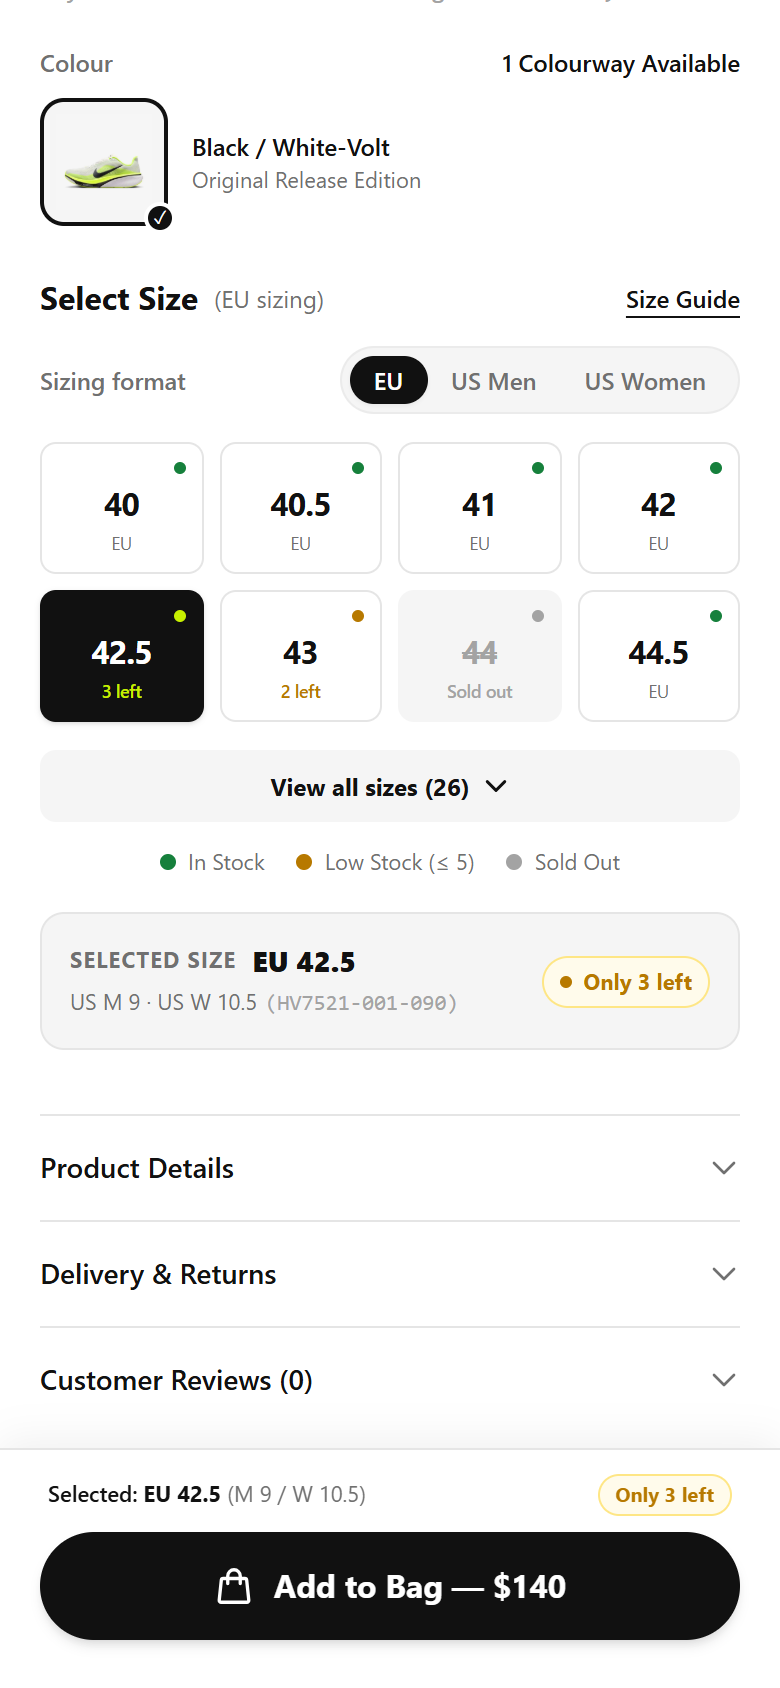
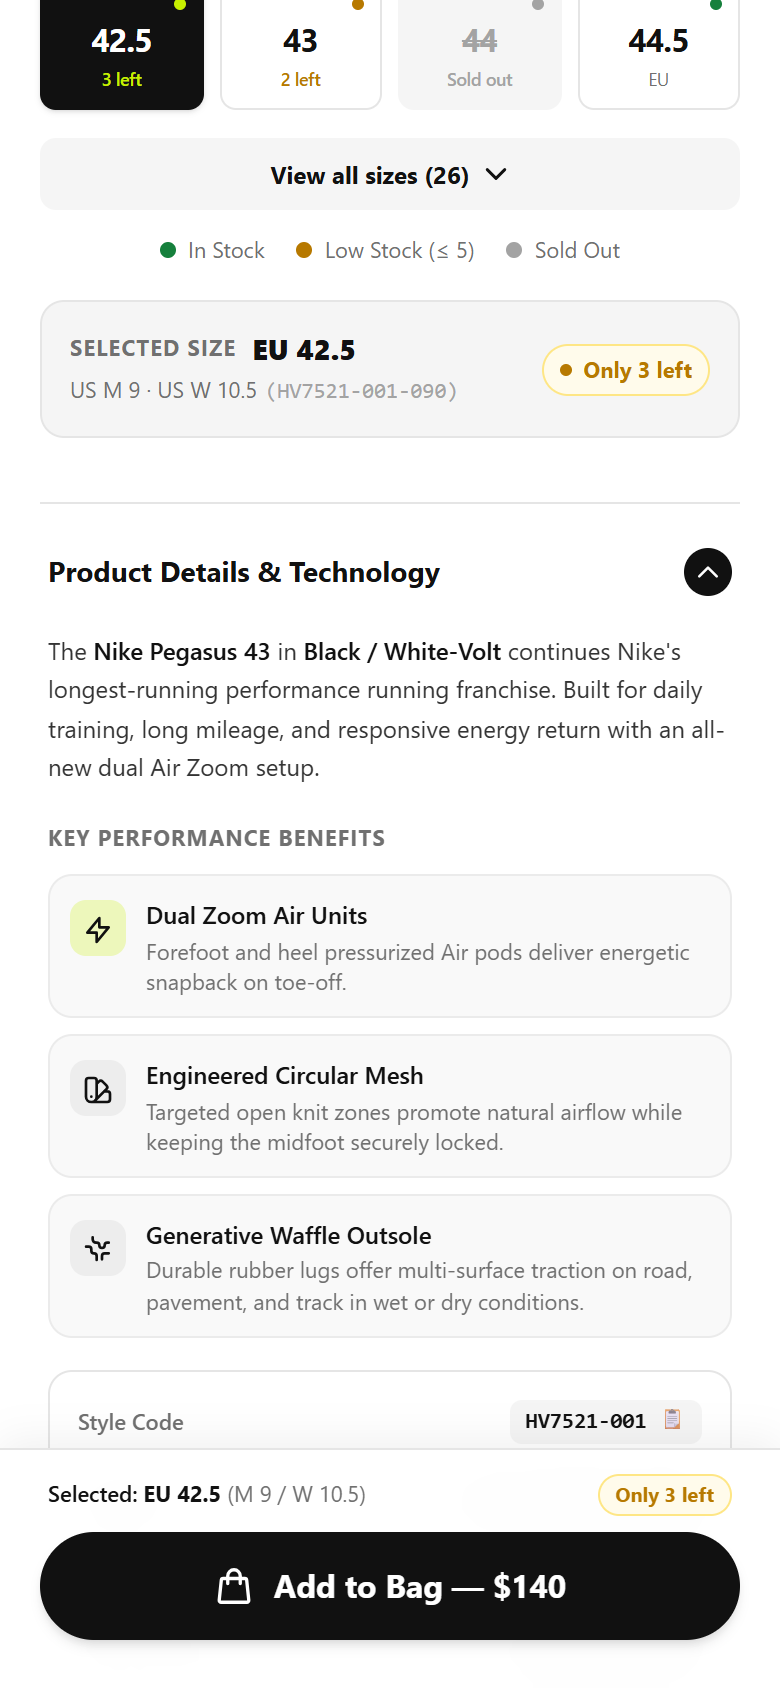
design: elevate Product Details, Delivery & Returns, and Reviews with authentic Nike styling

diff --git a/components/ProductAccordion.tsx b/components/ProductAccordion.tsx
@@ -6,52 +6,192 @@ import { productInfo } from "@/data/inventory";
 interface SectionItem {
   id: string;
   title: string;
+  badge?: string;
   content: React.ReactNode;
 }
 
 export default function ProductAccordion() {
   const [openSections, setOpenSections] = useState<Record<string, boolean>>({
-    details: false,
+    details: true, // open by default to showcase premium specs
     delivery: false,
     reviews: false,
   });
+
+  const [copiedSku, setCopiedSku] = useState(false);
 
   const toggle = (id: string) => {
     setOpenSections((prev) => ({ ...prev, [id]: !prev[id] }));
   };
 
+  const handleCopySku = () => {
+    navigator.clipboard?.writeText(productInfo.styleCode);
+    setCopiedSku(true);
+    setTimeout(() => setCopiedSku(false), 2000);
+  };
+
   const sections: SectionItem[] = [
     {
       id: "details",
-      title: "Product Details",
+      title: "Product Details & Technology",
       content: (
-        <div className="space-y-3 text-xs text-[#707070] leading-relaxed">
-          <p>
-            The Nike Pegasus 43 in {productInfo.colorway} continues Nike&apos;s longest-running performance franchise.
+        <div className="space-y-4 pt-1 pb-2 text-xs leading-relaxed">
+          {/* Editorial lead */}
+          <p className="text-[#333333] font-normal leading-relaxed">
+            The <span className="font-semibold text-[#111111]">Nike Pegasus 43</span> in{" "}
+            <span className="font-semibold text-[#111111]">{productInfo.colorway}</span> continues
+            Nike&apos;s longest-running performance running franchise. Built for daily training, long
+            mileage, and responsive energy return with an all-new dual Air Zoom setup.
           </p>
-          <div className="bg-[#F5F5F5] rounded-xl p-3 border border-[#E5E5E5]/60 text-[11px] space-y-1 font-mono">
-            <div><span className="font-semibold text-[#111111]">Style Code:</span> {productInfo.styleCode}</div>
-            <div><span className="font-semibold text-[#111111]">Category:</span> {productInfo.category}</div>
-            <div><span className="font-semibold text-[#111111]">Colorway:</span> {productInfo.colorway}</div>
-            <div><span className="font-semibold text-[#111111]">Official Launch:</span> {productInfo.launchDate}</div>
+
+          {/* Key Innovations Grid */}
+          <div className="space-y-2.5">
+            <h4 className="text-[11px] font-bold uppercase tracking-wider text-[#707070]">
+              Key Performance Benefits
+            </h4>
+
+            <div className="grid grid-cols-1 gap-2">
+              <div className="flex items-start gap-2.5 p-2.5 rounded-xl bg-[#F9F9F9] border border-[#EBEBEB]">
+                <div className="w-7 h-7 rounded-lg bg-[#C7F000]/25 text-[#111111] flex items-center justify-center shrink-0 mt-0.5">
+                  <svg className="w-4 h-4" fill="none" stroke="currentColor" strokeWidth="2" viewBox="0 0 24 24">
+                    <path strokeLinecap="round" strokeLinejoin="round" d="M13 10V3L4 14h7v7l9-11h-7z" />
+                  </svg>
+                </div>
+                <div className="min-w-0">
+                  <p className="text-[12px] font-semibold text-[#111111]">Dual Zoom Air Units</p>
+                  <p className="text-[11px] text-[#707070] leading-snug">
+                    Forefoot and heel pressurized Air pods deliver energetic snapback on toe-off.
+                  </p>
+                </div>
+              </div>
+
+              <div className="flex items-start gap-2.5 p-2.5 rounded-xl bg-[#F9F9F9] border border-[#EBEBEB]">
+                <div className="w-7 h-7 rounded-lg bg-[#111111]/5 text-[#111111] flex items-center justify-center shrink-0 mt-0.5">
+                  <svg className="w-4 h-4" fill="none" stroke="currentColor" strokeWidth="2" viewBox="0 0 24 24">
+                    <path strokeLinecap="round" strokeLinejoin="round" d="M7 21a4 4 0 01-4-4V5a2 2 0 012-2h4a2 2 0 012 2v12a4 4 0 01-4 4zm0 0h12a2 2 0 002-2v-4a2 2 0 00-2-2h-2.343M11 7.343l1.657-1.657a2 2 0 012.828 0l2.829 2.829a2 2 0 010 2.828l-8.486 8.485M7 17h.01" />
+                  </svg>
+                </div>
+                <div className="min-w-0">
+                  <p className="text-[12px] font-semibold text-[#111111]">Engineered Circular Mesh</p>
+                  <p className="text-[11px] text-[#707070] leading-snug">
+                    Targeted open knit zones promote natural airflow while keeping the midfoot securely locked.
+                  </p>
+                </div>
+              </div>
+
+              <div className="flex items-start gap-2.5 p-2.5 rounded-xl bg-[#F9F9F9] border border-[#EBEBEB]">
+                <div className="w-7 h-7 rounded-lg bg-[#111111]/5 text-[#111111] flex items-center justify-center shrink-0 mt-0.5">
+                  <svg className="w-4 h-4" fill="none" stroke="currentColor" strokeWidth="2" viewBox="0 0 24 24">
+                    <path strokeLinecap="round" strokeLinejoin="round" d="M3.055 11H5a2 2 0 012 2v1a2 2 0 002 2 2 2 0 012 2v2.945M8 3.935V5.5A2.5 2.5 0 0010.5 8h.5a2 2 0 012 2 2 2 0 104 0 2 2 0 012-2h1.064M15 20.488V18a2 2 0 012-2h3.064" />
+                  </svg>
+                </div>
+                <div className="min-w-0">
+                  <p className="text-[12px] font-semibold text-[#111111]">Generative Waffle Outsole</p>
+                  <p className="text-[11px] text-[#707070] leading-snug">
+                    Durable rubber lugs offer multi-surface traction on road, pavement, and track in wet or dry conditions.
+                  </p>
+                </div>
+              </div>
+            </div>
           </div>
-          <p className="text-[11px] text-[#A3A3A3]">
-            Verified manufacturer specifications regarding midsole foam formulation, stack heights, and textile technologies will be published upon official launch.
-          </p>
+
+          {/* Specifications Card */}
+          <div className="rounded-xl border border-[#E5E5E5] bg-white p-3.5 space-y-2.5">
+            <div className="flex items-center justify-between border-b border-[#F0F0F0] pb-2">
+              <span className="text-[11px] font-medium text-[#707070]">Style Code</span>
+              <button
+                type="button"
+                onClick={handleCopySku}
+                className="inline-flex items-center gap-1.5 font-mono text-[11px] font-bold text-[#111111] hover:text-[#707070] bg-[#F5F5F5] px-2 py-0.5 rounded-md transition-colors"
+                title="Click to copy SKU"
+              >
+                <span>{productInfo.styleCode}</span>
+                <span className="text-[10px] text-[#707070]">{copiedSku ? "✓ Copied" : "📋"}</span>
+              </button>
+            </div>
+
+            <div className="flex items-center justify-between border-b border-[#F0F0F0] pb-2">
+              <span className="text-[11px] font-medium text-[#707070]">Category</span>
+              <span className="text-[11px] font-semibold text-[#111111]">{productInfo.category} (Neutral Daily)</span>
+            </div>
+
+            <div className="flex items-center justify-between border-b border-[#F0F0F0] pb-2">
+              <span className="text-[11px] font-medium text-[#707070]">Colorway</span>
+              <span className="text-[11px] font-semibold text-[#111111]">{productInfo.colorway}</span>
+            </div>
+
+            <div className="flex items-center justify-between border-b border-[#F0F0F0] pb-2">
+              <span className="text-[11px] font-medium text-[#707070]">Official Launch</span>
+              <span className="text-[11px] font-semibold text-[#111111]">{productInfo.launchDate}</span>
+            </div>
+
+            <div className="flex items-center justify-between">
+              <span className="text-[11px] font-medium text-[#707070]">Weight / Heel Drop</span>
+              <span className="text-[11px] font-semibold text-[#111111]">~285g / 10mm Offset</span>
+            </div>
+          </div>
+
+          {/* Move to Zero Eco Banner */}
+          <div className="flex items-center gap-2.5 p-2.5 rounded-xl bg-emerald-50/70 border border-emerald-100 text-[11px] text-emerald-900">
+            <span className="w-5 h-5 rounded-full bg-emerald-600 text-white flex items-center justify-center font-bold text-[10px] shrink-0">
+              🌱
+            </span>
+            <p className="leading-snug">
+              <span className="font-semibold">Move to Zero:</span> Made with at least 20% recycled material by weight to reduce waste and carbon footprint.
+            </p>
+          </div>
         </div>
       ),
     },
     {
       id: "delivery",
       title: "Delivery & Returns",
+      badge: "Free 60-Day Trial",
       content: (
-        <div className="space-y-2 text-xs text-[#707070] leading-relaxed">
-          <p>
-            Standard shipping and store pickup options are available at checkout.
-          </p>
-          <p className="text-[11px] text-[#A3A3A3]">
-            Specific delivery timelines, shipping rates, and return policies will be confirmed by Nike upon launch on {productInfo.launchDate}.
-          </p>
+        <div className="space-y-3 pt-1 pb-2 text-xs leading-relaxed">
+          {/* Shipping highlight 1 */}
+          <div className="flex items-start gap-3 p-3 rounded-xl bg-[#F9F9F9] border border-[#EBEBEB]">
+            <div className="w-8 h-8 rounded-full bg-[#111111] text-white flex items-center justify-center shrink-0 mt-0.5">
+              <svg className="w-4 h-4" fill="none" stroke="currentColor" strokeWidth="2" viewBox="0 0 24 24">
+                <path strokeLinecap="round" strokeLinejoin="round" d="M8.25 18.75a1.5 1.5 0 01-3 0m3 0a1.5 1.5 0 00-3 0m3 0h6m-9 0H3.375a1.125 1.125 0 01-1.125-1.125V14.25m17.25 4.5a1.5 1.5 0 01-3 0m3 0a1.5 1.5 0 00-3 0m3 0h1.125c.621 0 1.129-.504 1.09-1.124a17.902 17.902 0 00-3.213-9.193 2.056 2.056 0 00-1.58-.86H14.25M16.5 18.75h-2.25m0-11.25H4.5A2.25 2.25 0 002.25 9.75v6a2.25 2.25 0 002.25 2.25M14.25 7.5v11.25" />
+              </svg>
+            </div>
+            <div>
+              <p className="font-bold text-[12px] text-[#111111]">Free Standard Delivery</p>
+              <p className="text-[11px] text-[#707070] mt-0.5">
+                Complimentary for all Nike Members. Arrives in 2–4 business days with end-to-end tracking.
+              </p>
+            </div>
+          </div>
+
+          {/* Returns highlight 2 */}
+          <div className="flex items-start gap-3 p-3 rounded-xl bg-[#F9F9F9] border border-[#EBEBEB]">
+            <div className="w-8 h-8 rounded-full bg-[#111111] text-white flex items-center justify-center shrink-0 mt-0.5">
+              <svg className="w-4 h-4" fill="none" stroke="currentColor" strokeWidth="2" viewBox="0 0 24 24">
+                <path strokeLinecap="round" strokeLinejoin="round" d="M16.023 9.348h4.992v-.001M2.985 19.644v-4.992m0 0h4.992m-4.993 0l3.181 3.183a8.25 8.25 0 0013.803-3.7M4.031 9.865a8.25 8.25 0 0113.803-3.7l3.181 3.182m0-4.991v4.99" />
+              </svg>
+            </div>
+            <div>
+              <p className="font-bold text-[12px] text-[#111111]">60-Day Wear-Test Returns</p>
+              <p className="text-[11px] text-[#707070] mt-0.5">
+                Wear them, run in them, keep what you love. Return them for free within 60 days with no questions asked.
+              </p>
+            </div>
+          </div>
+
+          {/* Store pickup highlight 3 */}
+          <div className="flex items-start gap-3 p-3 rounded-xl bg-[#F9F9F9] border border-[#EBEBEB]">
+            <div className="w-8 h-8 rounded-full bg-[#111111] text-white flex items-center justify-center shrink-0 mt-0.5">
+              <svg className="w-4 h-4" fill="none" stroke="currentColor" strokeWidth="2" viewBox="0 0 24 24">
+                <path strokeLinecap="round" strokeLinejoin="round" d="M13.5 21v-7.5a.75.75 0 01.75-.75h3a.75.75 0 01.75.75V21m-4.5 0H2.25A2.25 2.25 0 010 18.75V10.5m18 10.5h2.25A2.25 2.25 0 0022.5 18.75V10.5M3 10.5l9-6 9 6" />
+              </svg>
+            </div>
+            <div>
+              <p className="font-bold text-[12px] text-[#111111]">Free Store Pick Up</p>
+              <p className="text-[11px] text-[#707070] mt-0.5">
+                Pick up ready in 2 hours at your local official Nike retail location.
+              </p>
+            </div>
+          </div>
         </div>
       ),
     },
@@ -59,18 +199,52 @@ export default function ProductAccordion() {
       id: "reviews",
       title: "Customer Reviews (0)",
       content: (
-        <div className="space-y-2 text-xs text-[#707070] leading-relaxed">
-          <div className="flex items-center gap-1 text-[#A3A3A3]">
-            {[1, 2, 3, 4, 5].map((s) => (
-              <svg key={s} className="w-4 h-4 fill-current" viewBox="0 0 20 20">
-                <path d="M9.049 2.927c.3-.921 1.603-.921 1.902 0l1.07 3.292a1 1 0 00.95.69h3.462c.969 0 1.371 1.24.588 1.81l-2.8 2.034a1 1 0 00-.364 1.118l1.07 3.292c.3.921-.755 1.688-1.54 1.118l-2.8-2.034a1 1 0 00-1.175 0l-2.8 2.034c-.784.57-1.838-.197-1.539-1.118l1.07-3.292a1 1 0 00-.364-1.118L2.98 8.72c-.783-.57-.38-1.81.588-1.81h3.461a1 1 0 00.951-.69l1.07-3.292z" />
-              </svg>
-            ))}
-            <span className="text-xs font-medium text-[#707070] ml-1">No ratings yet</span>
+        <div className="space-y-4 pt-1 pb-2 text-xs leading-relaxed">
+          {/* Rating Summary Header */}
+          <div className="flex items-center justify-between bg-[#F9F9F9] border border-[#EBEBEB] rounded-2xl p-4">
+            <div>
+              <div className="flex items-baseline gap-2">
+                <span className="text-2xl font-black text-[#111111] tracking-tight">0.0</span>
+                <span className="text-xs text-[#707070]">out of 5 stars</span>
+              </div>
+              <div className="flex items-center gap-1 mt-1 text-[#D4D4D4]">
+                {[1, 2, 3, 4, 5].map((s) => (
+                  <svg key={s} className="w-4 h-4 fill-current" viewBox="0 0 20 20">
+                    <path d="M9.049 2.927c.3-.921 1.603-.921 1.902 0l1.07 3.292a1 1 0 00.95.69h3.462c.969 0 1.371 1.24.588 1.81l-2.8 2.034a1 1 0 00-.364 1.118l1.07 3.292c.3.921-.755 1.688-1.54 1.118l-2.8-2.034a1 1 0 00-1.175 0l-2.8 2.034c-.784.57-1.838-.197-1.539-1.118l1.07-3.292a1 1 0 00-.364-1.118L2.98 8.72c-.783-.57-.38-1.81.588-1.81h3.461a1 1 0 00.951-.69l1.07-3.292z" />
+                  </svg>
+                ))}
+              </div>
+              <p className="text-[11px] text-[#707070] mt-1 font-medium">0 verified runner ratings</p>
+            </div>
+
+            {/* Rating breakdown bars */}
+            <div className="w-32 space-y-1">
+              {[5, 4, 3, 2, 1].map((stars) => (
+                <div key={stars} className="flex items-center gap-1.5 text-[10px] text-[#707070]">
+                  <span className="w-2">{stars}</span>
+                  <div className="flex-1 h-1.5 bg-[#E5E5E5] rounded-full overflow-hidden">
+                    <div className="h-full bg-[#111111] rounded-full w-0" />
+                  </div>
+                  <span className="w-2 text-right">0</span>
+                </div>
+              ))}
+            </div>
           </div>
-          <p className="text-[11px] text-[#A3A3A3]">
-            Customer reviews and verified runner ratings will open following the {productInfo.launchDate} launch.
-          </p>
+
+          {/* Wear-tester empty callout card */}
+          <div className="text-center p-4 rounded-xl border border-dashed border-[#CCCCCC] bg-white space-y-2">
+            <p className="font-bold text-[13px] text-[#111111]">Be the first to wear-test the Pegasus 43</p>
+            <p className="text-[11px] text-[#707070] max-w-xs mx-auto">
+              Verified runner reviews, fit analysis, and on-road impressions will officially open on launch day ({productInfo.launchDate}).
+            </p>
+            <button
+              type="button"
+              disabled
+              className="mt-1 inline-flex items-center justify-center px-4 py-2 rounded-full border border-[#E5E5E5] bg-[#F5F5F5] text-[#A3A3A3] text-xs font-semibold cursor-not-allowed"
+            >
+              Write a Review (Opens Launch Day)
+            </button>
+          </div>
         </div>
       ),
     },
@@ -84,32 +258,41 @@ export default function ProductAccordion() {
       {sections.map((sec) => {
         const isOpen = openSections[sec.id];
         return (
-          <div key={sec.id} className="py-4">
+          <div key={sec.id} className="py-2">
             <button
               type="button"
               onClick={() => toggle(sec.id)}
               aria-expanded={isOpen}
-              className="w-full flex items-center justify-between text-left text-sm font-semibold text-[#111111] hover:text-[#707070] transition-colors focus:outline-none focus-visible:ring-1 focus-visible:ring-black"
+              className="w-full py-3.5 px-1 flex items-center justify-between text-left text-sm font-bold text-[#111111] hover:text-[#707070] transition-colors rounded-lg focus:outline-none focus-visible:ring-2 focus-visible:ring-black/20 focus-visible:ring-offset-2 select-none group"
             >
-              <span>{sec.title}</span>
-              <svg
-                className={`w-4 h-4 text-[#707070] transition-transform duration-200 ${
-                  isOpen ? "rotate-180" : ""
+              <div className="flex items-center gap-2">
+                <span>{sec.title}</span>
+                {sec.badge && (
+                  <span className="text-[10px] font-bold bg-[#C7F000]/30 text-[#111111] px-2 py-0.5 rounded-full border border-[#C7F000]">
+                    {sec.badge}
+                  </span>
+                )}
+              </div>
+              <div
+                className={`w-6 h-6 rounded-full flex items-center justify-center transition-colors ${
+                  isOpen ? "bg-[#111111] text-white" : "bg-[#F5F5F5] text-[#111111] group-hover:bg-[#E5E5E5]"
                 }`}
-                fill="none"
-                stroke="currentColor"
-                viewBox="0 0 24 24"
               >
-                <path
-                  strokeLinecap="round"
-                  strokeLinejoin="round"
-                  strokeWidth="2"
-                  d="M19.5 8.25l-7.5 7.5-7.5-7.5"
-                />
-              </svg>
+                <svg
+                  className={`w-3.5 h-3.5 transition-transform duration-200 ${
+                    isOpen ? "rotate-180" : ""
+                  }`}
+                  fill="none"
+                  stroke="currentColor"
+                  strokeWidth="2.2"
+                  viewBox="0 0 24 24"
+                >
+                  <path strokeLinecap="round" strokeLinejoin="round" d="M19.5 8.25l-7.5 7.5-7.5-7.5" />
+                </svg>
+              </div>
             </button>
             {isOpen && (
-              <div className="mt-3 pt-1 animate-fade-in">{sec.content}</div>
+              <div className="px-1 animate-fade-in">{sec.content}</div>
             )}
           </div>
         );
